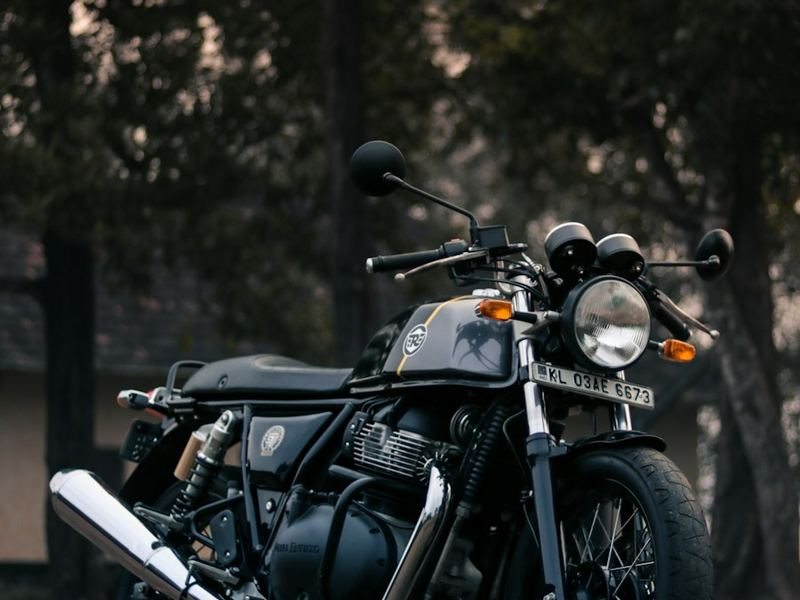
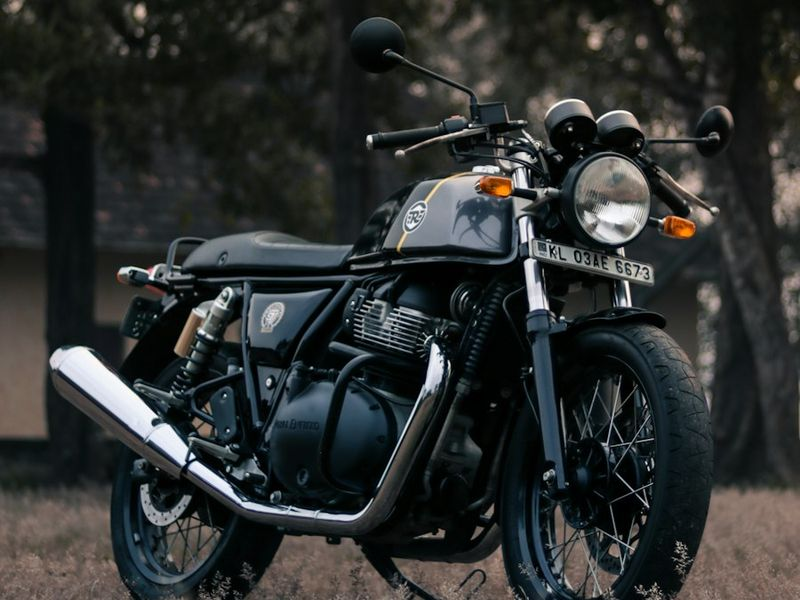
updates

diff --git a/css/style.css b/css/style.css
@@ -171,6 +171,8 @@ button, input, select, textarea { font: inherit; }
 .tagline::before { content: ''; width: 28px; height: 3px; border-radius: 2px; background: var(--green); }
 .hero h1 { color: var(--white); margin-bottom: 16px; text-shadow: 0 2px 18px rgba(0, 0, 0, .35); }
 .hl { color: var(--yellow); }
+.hl--rotate { display: inline-block; white-space: nowrap; transition: opacity .35s ease, transform .35s ease; }
+.hl--rotate.is-out { opacity: 0; transform: translateY(.3em); }
 .hero__lead { font-size: 17px; color: #e6e6e6; margin-bottom: 24px; max-width: 540px; }
 .hero__perks { list-style: none; padding: 0; margin: 0 0 34px; display: flex; flex-wrap: wrap; gap: 10px; }
 .hero__perks li {
@@ -181,12 +183,6 @@ button, input, select, textarea { font: inherit; }
 
 .search-card { background: var(--white); color: var(--text); border-radius: 20px; box-shadow: 0 24px 60px rgba(0, 0, 0, .35); padding: 28px; display: grid; grid-template-columns: minmax(0, 1fr); gap: 14px; width: 100%; max-width: 500px; justify-self: end; border-top: 5px solid var(--yellow); }
 .search-card__title { grid-column: 1 / -1; font-size: 22px; margin: 0; }
-.toggle { grid-column: 1 / -1; display: inline-flex; justify-self: start; background: var(--bg-grey); border-radius: 999px; padding: 4px; }
-.toggle input { position: absolute; opacity: 0; pointer-events: none; }
-.toggle span { display: inline-flex; align-items: center; gap: 6px; padding: 8px 22px; border-radius: 999px; font-weight: 600; font-size: 14px; color: var(--grey); cursor: pointer; transition: .2s; }
-.toggle .i { width: 18px; height: 18px; }
-.toggle input:checked + span { background: var(--yellow); color: var(--black); }
-.toggle input:focus-visible + span { outline: 2px solid var(--black); }
 .field { display: grid; gap: 6px; min-width: 0; }
 .field--full { grid-column: 1 / -1; }
 .field > span { display: flex; align-items: center; gap: 6px; font-size: 13px; font-weight: 600; color: var(--black); }
@@ -212,9 +208,6 @@ button, input, select, textarea { font: inherit; }
 }
 @media (max-width: 520px) {
   .search-card { grid-template-columns: 1fr; padding: 20px 18px; }
-  .toggle { justify-self: stretch; }
-  .toggle label { flex: 1; }
-  .toggle span { justify-content: center; width: 100%; }
   .hero__perks li { padding: 6px 12px; font-size: 13px; }
 }
 
@@ -233,8 +226,8 @@ button, input, select, textarea { font: inherit; }
 .bike-row { display: grid; grid-template-columns: repeat(4, 1fr); gap: 24px; }
 .bike-card { background: var(--white); border: 1px solid var(--line); border-radius: var(--radius); overflow: hidden; display: flex; flex-direction: column; transition: transform .25s, box-shadow .25s; }
 .bike-card:hover { transform: translateY(-6px); box-shadow: var(--shadow-lg); }
-.bike-card__img { background: var(--bg-grey); padding: 14px; }
-.bike-card__img img { width: 100%; aspect-ratio: 4 / 3; object-fit: cover; border-radius: var(--radius-sm); }
+.bike-card__img { background: var(--bg-grey); }
+.bike-card__img img { width: 100%; aspect-ratio: 4 / 3; object-fit: cover; }
 .bike-card__body { padding: 18px 20px 22px; display: flex; flex-direction: column; flex: 1; }
 .bike-card__meta { display: flex; justify-content: space-between; align-items: center; margin-bottom: 10px; }
 .chip { font-size: 12px; font-weight: 600; padding: 3px 12px; border-radius: 999px; background: var(--yellow-soft); color: var(--black); }
@@ -245,7 +238,7 @@ button, input, select, textarea { font: inherit; }
 .feat { list-style: none; padding: 0; margin: 0 0 20px; display: grid; gap: 6px; font-size: 14px; }
 .feat li { display: flex; gap: 8px; align-items: flex-start; }
 .feat .i { width: 18px; height: 18px; margin-top: 2px; color: var(--green); stroke-width: 2.4; }
-.bike-card .btn { margin-top: auto; align-self: flex-start; }
+.bike-card .btn { margin-top: auto; align-self: center; }
 
 @media (max-width: 1080px) { .bike-row { grid-template-columns: repeat(2, 1fr); } }
 @media (max-width: 640px) {
@@ -437,13 +430,11 @@ button, input, select, textarea { font: inherit; }
 .footer ul { list-style: none; padding: 0; margin: 0; display: grid; gap: 10px; }
 .footer a { text-decoration: none; transition: color .2s; }
 .footer ul a:hover { color: var(--yellow); }
-.footer__brand p { margin: 16px 0 20px; }
+.footer__brand p { margin: 12px 0 0; }
+.footer__tagline { color: var(--white); font-weight: 500; }
+.footer__about { font-size: 14px; line-height: 1.7; }
 .footer__contact li { display: flex; align-items: center; gap: 10px; word-break: break-word; }
 .footer__contact .i { width: 18px; height: 18px; color: var(--green); }
-.social { display: flex; gap: 10px; }
-.social a { display: grid; place-items: center; width: 40px; height: 40px; border-radius: 50%; background: #222; color: var(--white); transition: background .2s, color .2s; }
-.social a:hover { background: var(--yellow); color: var(--black); }
-.social .i { width: 19px; height: 19px; }
 .footer__bottom { border-top: 1px solid #262626; padding: 20px 0 22px; font-size: 14px; }
 .footer__bottom a:hover { color: var(--yellow); }
 @media (max-width: 900px) { .footer__grid { grid-template-columns: 1fr 1fr; } }

diff --git a/js/main.js b/js/main.js
@@ -1,7 +1,7 @@
 (function () {
   'use strict';
 
-  var WHATSAPP = '919733042987';
+  var WHATSAPP = '919246240880';
   var EMAIL = 'taskriders.slg@gmail.com';
   // Free form-to-email service. The first enquiry sends an activation email to the inbox above — click it once.
   var FORM_ENDPOINT = 'https://formsubmit.co/ajax/' + EMAIL;
@@ -56,6 +56,21 @@
     s.addEventListener('change', function () { setLocation(s.value); store('tr-location', s.value); });
   });
 
+  // ---------- Hero heading: rotating word ----------
+  var rotator = document.querySelector('[data-words]');
+  if (rotator && !window.matchMedia('(prefers-reduced-motion: reduce)').matches) {
+    var words = rotator.getAttribute('data-words').split(',');
+    var wordIndex = 0;
+    setInterval(function () {
+      rotator.classList.add('is-out');
+      setTimeout(function () {
+        wordIndex = (wordIndex + 1) % words.length;
+        rotator.textContent = words[wordIndex];
+        rotator.classList.remove('is-out');
+      }, 350);
+    }, 2500);
+  }
+
   // ---------- Hero slider ----------
   var slider = document.querySelector('[data-slider]');
   if (slider) {
@@ -108,10 +123,13 @@
 
     search.addEventListener('submit', function (e) {
       e.preventDefault();
-      if (!sPick.value || !sRet.value || sRet.value <= sPick.value) {
-        sErr.textContent = !sPick.value || !sRet.value
-          ? 'Please choose your pick-up and return date & time.'
-          : 'Return time must be after pick-up time.';
+      var sVehicle = search.elements.vehicle;
+      if (!sVehicle.value || !sPick.value || !sRet.value || sRet.value <= sPick.value) {
+        sErr.textContent = !sVehicle.value
+          ? 'Please select a bike or scooty.'
+          : !sPick.value || !sRet.value
+            ? 'Please choose your pick-up and return date & time.'
+            : 'Return time must be after pick-up time.';
         sErr.hidden = false;
         return;
       }

diff --git a/includes/functions.php b/includes/functions.php
@@ -61,9 +61,6 @@ const ICONS = [
     'engine'   => '<path d="M4 9h3l2-2h5l2 2h2v3h2v4h-2v2h-4l-2 2H9l-2-2H4z"/>',
     'phone'    => '<path d="M22 16.9v3a2 2 0 0 1-2.2 2 19.8 19.8 0 0 1-8.6-3.1 19.5 19.5 0 0 1-6-6A19.8 19.8 0 0 1 2.1 4.2 2 2 0 0 1 4.1 2h3a2 2 0 0 1 2 1.7c.1.9.4 1.8.7 2.7a2 2 0 0 1-.5 2.1L8 9.8a16 16 0 0 0 6 6l1.3-1.3a2 2 0 0 1 2.1-.4c.9.3 1.8.6 2.7.7a2 2 0 0 1 1.7 2z"/>',
     'mail'     => '<rect x="2" y="4" width="20" height="16" rx="2"/><path d="m22 6-10 7L2 6"/>',
-    'insta'    => '<rect x="2" y="2" width="20" height="20" rx="5"/><circle cx="12" cy="12" r="4"/><circle cx="17.5" cy="6.5" r=".5"/>',
-    'facebook' => '<path d="M18 2h-3a5 5 0 0 0-5 5v3H7v4h3v8h4v-8h3l1-4h-4V7a1 1 0 0 1 1-1h3z"/>',
-    'youtube'  => '<rect x="2" y="5" width="20" height="14" rx="4"/><path d="m10 9 5 3-5 3z"/>',
     'arrow-right' => '<path d="M5 12h14M13 5l7 7-7 7"/>',
     'chevron'  => '<path d="m6 9 6 6 6-6"/>',
     'clock'    => '<circle cx="12" cy="12" r="10"/><path d="M12 6v6l4 2"/>',
@@ -117,6 +114,15 @@ function hero(): string
         $dots .= '<button type="button" aria-label="Show slide ' . $n . '"' . ($first ? ' class="is-active"' : '') . '></button>';
     }
     $loc_opts = implode('', array_map(fn($l) => '<option>' . e($l) . '</option>', LOCATIONS));
+    // Grouped under "Bike" and "Scooty" headings, using each vehicle's type from config.php
+    $bike_opts = '';
+    foreach (['Bike', 'Scooty'] as $type) {
+        $bike_opts .= '<optgroup label="' . $type . '">';
+        foreach (array_filter(BIKES, fn($b) => $b['type'] === $type) as $b) {
+            $bike_opts .= '<option>' . e($b['name']) . '</option>';
+        }
+        $bike_opts .= '</optgroup>';
+    }
     $perks = '';
     foreach ([['helmet', 'Free helmet'], ['support', '24/7 support'], ['doc', 'Permit help']] as [$ic, $t]) {
         $perks .= '<li>' . icon($ic) . $t . '</li>';
@@ -131,7 +137,7 @@ function hero(): string
   <div class="container hero__grid">
     <div class="hero__text">
       <span class="tagline">Ride • Explore • Repeat</span>
-      <h1>Rent Royal Enfield &amp; Scooty in <span class="hl">Darjeeling, Sikkim</span> &amp; the Himalayas</h1>
+      <h1>Your next <span class="hl hl--rotate" data-words="adventure,journey,road trip,escape">adventure</span><br>starts here</h1>
       <p class="hero__lead">Well-serviced bikes from {$city} for Darjeeling, Gangtok, Bhutan, Nepal &amp; the North East.</p>
       <ul class="hero__perks">{$perks}</ul>
       <div class="hero__dots" data-dots>{$dots}</div>
@@ -139,10 +145,10 @@ function hero(): string
 
     <form class="search-card" id="search-card" novalidate>
         <h2 class="search-card__title">Book Your Ride</h2>
-        <div class="toggle" role="radiogroup" aria-label="Vehicle type">
-          <label><input type="radio" name="vehicle" value="Bike" checked><span>{$i_bike} Bike</span></label>
-          <label><input type="radio" name="vehicle" value="Scooty"><span>{$i_bike} Scooty</span></label>
-        </div>
+        <label class="field field--full">
+          <span>{$i_bike} Bike / Scooty</span>
+          <select name="vehicle" required><option value="">Select a bike or scooty</option>{$bike_opts}</select>
+        </label>
         <label class="field field--full">
           <span>{$i_pin} Pick-up Location</span>
           <select name="location" data-location>{$loc_opts}</select>
@@ -179,11 +185,12 @@ function bike_card(array $b): string
         $feats .= '<li>' . icon('check') . e($f) . '</li>';
     }
     $e = 'e';
+    $src = asset($b['image']); // versioned so replaced photos show immediately
     $engine_icon = icon('engine');
     $btn = wa_link('Enquire Now', 'btn btn--wa btn--sm');
     return <<<HTML
     <article class="bike-card">
-      <div class="bike-card__img"><img src="{$b['image']}" alt="{$e($b['alt'])}" width="800" height="600" loading="lazy"></div>
+      <div class="bike-card__img"><img src="{$src}" alt="{$e($b['alt'])}" width="800" height="600" loading="lazy"></div>
       <div class="bike-card__body">
         <div class="bike-card__meta"><span class="chip">{$e($b['type'])}</span><span class="engine">{$engine_icon}{$e($b['engine'])}</span></div>
         <h3>{$e($b['name'])}</h3>
@@ -386,7 +393,6 @@ function enquiry(string $sec_cls = 'section'): string
     }
     $head = head_label('Book Now', 'Send a Booking Enquiry', "Fill in your details and we'll get back to you shortly. Prefer chat? WhatsApp us anytime.", false);
     $i_phone = icon('phone');
-    $i_wa = icon('whatsapp');
     $i_mail = icon('mail');
     $i_pin = icon('pin');
     $i_ok = icon('check-circle');
@@ -399,8 +405,7 @@ function enquiry(string $sec_cls = 'section'): string
     <div class="enquiry__info">
       {$head}
       <ul class="contact-list">
-        <li>{$i_phone}<div><span>Call</span><a href="tel:+{$s['call_raw']}">{$s['call']}</a></div></li>
-        <li>{$i_wa}<div><span>WhatsApp</span><a href="{$wa}" target="_blank" rel="noopener">{$s['phone']}</a></div></li>
+        <li>{$i_phone}<div><span>Call / WhatsApp</span><a href="tel:+{$s['phone_raw']}">{$s['phone']}</a></div></li>
         <li>{$i_mail}<div><span>Email</span><a href="mailto:{$s['email']}">{$s['email']}</a></div></li>
         <li>{$i_pin}<div><span>Based in</span><strong>{$s['city']}</strong></div></li>
       </ul>

diff --git a/includes/layout.php b/includes/layout.php
@@ -116,7 +116,7 @@ function site_footer(): string
     }
     $s = array_map('e', SITE);
     $wa = e(WA);
-    $i = array_map('icon', ['insta' => 'insta', 'facebook' => 'facebook', 'youtube' => 'youtube', 'whatsapp' => 'whatsapp',
+    $i = array_map('icon', ['whatsapp' => 'whatsapp',
                             'phone' => 'phone', 'mail' => 'mail', 'pin' => 'pin']);
     return <<<HTML
 <footer class="footer">
@@ -126,13 +126,8 @@ function site_footer(): string
         <img src="images/logo.png" alt="Task Riders logo" width="56" height="56" loading="lazy" onerror="this.style.display='none'">
         <span>Task <b>Riders</b></span>
       </a>
-      <p>Himalayan bike rentals from the hills.</p>
-      <div class="social">
-        <a href="{$s['instagram']}" aria-label="Instagram" target="_blank" rel="noopener">{$i['insta']}</a>
-        <a href="{$s['facebook']}" aria-label="Facebook" target="_blank" rel="noopener">{$i['facebook']}</a>
-        <a href="{$s['youtube']}" aria-label="YouTube" target="_blank" rel="noopener">{$i['youtube']}</a>
-        <a href="{$wa}" aria-label="WhatsApp" target="_blank" rel="noopener">{$i['whatsapp']}</a>
-      </div>
+      <p class="footer__tagline">Himalayan bike rentals from the hills.</p>
+      <p class="footer__about">Task Riders offers Royal Enfield and scooty rental in Siliguri, the gateway to the Eastern Himalayas. Rent a Hunter 350, Meteor 350, Classic 350 or TVS Ntorq 125 for rides to Darjeeling, Gangtok, Sikkim, Bhutan, Nepal and North East India, with a free helmet, permit help and 24/7 on-road support.</p>
     </div>
     <div>
       <h4>Company</h4>
@@ -145,8 +140,7 @@ function site_footer(): string
     <div>
       <h4>Get in Touch</h4>
       <ul class="footer__contact">
-        <li>{$i['phone']}<a href="tel:+{$s['call_raw']}">{$s['call']}</a></li>
-        <li>{$i['whatsapp']}<a href="{$wa}" target="_blank" rel="noopener">{$s['phone']}</a></li>
+        <li>{$i['phone']}<a href="tel:+{$s['phone_raw']}">{$s['phone']}</a></li>
         <li>{$i['mail']}<a href="mailto:{$s['email']}">{$s['email']}</a></li>
         <li>{$i['pin']}<span>{$s['city']}</span></li>
       </ul>
@@ -155,7 +149,7 @@ function site_footer(): string
   <div class="footer__bottom"><div class="container">© 2026 Task Riders | <a href="{$s['url']}">{$s['domain']}</a></div></div>
 </footer>
 
-<a href="tel:+{$s['call_raw']}" class="call-float" aria-label="Call {$s['call']}">{$i['phone']}</a>
+<a href="tel:+{$s['phone_raw']}" class="call-float" aria-label="Call {$s['phone']}">{$i['phone']}</a>
 <a href="{$wa}" class="wa-float" target="_blank" rel="noopener" aria-label="Chat on WhatsApp">{$i['whatsapp']}</a>
 HTML;
 }

diff --git a/includes/config.php b/includes/config.php
@@ -9,10 +9,8 @@ const SITE = [
     'domain'    => 'taskriders.in',
     'url'       => 'https://taskriders.in/',
     'email'     => 'taskriders.slg@gmail.com',
-    'phone'     => '+91 97330 42987', // WhatsApp number
-    'phone_raw' => '919733042987',
-    'call'      => '+91 92462 40880', // number for phone calls
-    'call_raw'  => '919246240880',
+    'phone'     => '+91 92462 40880', // used for calls and WhatsApp
+    'phone_raw' => '919246240880',
     'city'      => 'Siliguri, West Bengal',
     'instagram' => '#', // EDIT: https://instagram.com/yourpage
     'facebook'  => '#', // EDIT: https://facebook.com/yourpage
@@ -59,7 +57,7 @@ const BIKES = [
         'name'     => 'Royal Enfield Meteor 350',
         'type'     => 'Bike',
         'image'    => 'images/bike-meteor.jpg',
-        'alt'      => 'Royal Enfield cruiser motorcycle for long highway rides to Bhutan and the North East',
+        'alt'      => 'Black Royal Enfield Meteor 350 cruiser on rent, parked at a Himalayan viewpoint at sunset',
         'engine'   => '349 cc',
         'summary'  => 'Comfortable cruiser for long rides.',
         'features' => ['Relaxed cruiser seating', 'Smooth on long highways', 'Great for Bhutan & North East'],
@@ -81,7 +79,7 @@ const BIKES = [
         'name'     => 'TVS Ntorq 125',
         'type'     => 'Scooty',
         'image'    => 'images/scooty-ntorq.jpg',
-        'alt'      => 'Scooty on rent in Siliguri and Darjeeling for local sightseeing',
+        'alt'      => 'TVS Ntorq 125 Race Edition scooty on rent, parked on a hill road at sunset',
         'engine'   => '124.8 cc',
         'summary'  => 'Easy, fuel-efficient for local sightseeing.',
         'features' => ['Gearless & easy to ride', 'Fuel-efficient', 'Perfect for town sightseeing'],
@@ -215,7 +213,7 @@ const FAQ = [
     ['Is fuel included?',
      'No, fuel is extra. Bikes are handed over with enough fuel to reach the nearest pump.'],
     ['How do I book?',
-     'Fill the enquiry form on this site or WhatsApp us on +91 97330 42987.'],
+     'Fill the enquiry form on this site or WhatsApp us on +91 92462 40880.'],
     ['Where can I rent a Royal Enfield for Darjeeling or Sikkim?',
      'Task Riders rents the Royal Enfield Hunter 350, Meteor 350, Classic 350 and the TVS Ntorq 125 scooty from Siliguri, '
      . 'the gateway to Darjeeling, Sikkim, Bhutan and Nepal. Book through the enquiry form or on WhatsApp.'],

diff --git a/includes/schema.php b/includes/schema.php
@@ -35,10 +35,10 @@ function business_schema(): array
         'image' => [abs_url('images/hero-1.jpg'), abs_url('images/logo-512.png')],
         'description' => SUMMARY,
         'email' => SITE['email'],
-        'telephone' => '+' . SITE['call_raw'],
+        'telephone' => '+' . SITE['phone_raw'],
         'address' => ['@type' => 'PostalAddress', 'addressLocality' => 'Siliguri', 'addressRegion' => 'West Bengal', 'addressCountry' => 'IN'],
         'areaServed' => $areas,
-        'contactPoint' => ['@type' => 'ContactPoint', 'telephone' => '+' . SITE['call_raw'], 'email' => SITE['email'],
+        'contactPoint' => ['@type' => 'ContactPoint', 'telephone' => '+' . SITE['phone_raw'], 'email' => SITE['email'],
                            'contactType' => 'reservations', 'areaServed' => 'IN'],
         'hasOfferCatalog' => ['@type' => 'OfferCatalog', 'name' => 'Bike & Scooty Rentals', 'itemListElement' => $offers],
         'knowsAbout' => ['Royal Enfield rental', 'Scooty rental', 'Himalayan motorcycle trips', 'Sikkim bike permits', 'Bhutan bike trips'],

diff --git a/contact.php b/contact.php
@@ -5,10 +5,10 @@ page_start([
     'path'        => 'contact',
     'active'      => 'contact',
     'title'       => 'Contact & Book – Bike Rental in Siliguri | Task Riders',
-    'description' => 'Book a Royal Enfield or scooty in Siliguri. Call ' . SITE['call'] . ', WhatsApp ' . SITE['phone'] . ' or email ' . SITE['email'] . '.',
+    'description' => 'Book a Royal Enfield or scooty in Siliguri. Call or WhatsApp ' . SITE['phone'] . ' or email ' . SITE['email'] . '.',
     'page_type'   => 'ContactPage',
     'crumb'       => 'Contact',
 ]);
-echo page_hero('Contact &amp; Booking', 'Call ' . e(SITE['call']) . ', WhatsApp ' . e(SITE['phone']) . ', email ' . e(SITE['email']) . ', or send the enquiry form below — we reply fast.', 'Contact');
+echo page_hero('Contact &amp; Booking', 'Call or WhatsApp ' . e(SITE['phone']) . ', email ' . e(SITE['email']) . ', or send the enquiry form below — we reply fast.', 'Contact');
 echo enquiry(), faq();
 page_end();

diff --git a/llms.php b/llms.php
@@ -22,8 +22,7 @@ $url = SITE['url'];
 $facts = implode("\n", [
     "- Business: " . SITE['name'] . " (" . SITE['domain'] . "), Royal Enfield & scooty rental",
     "- Based in: " . SITE['city'] . ", India",
-    "- Phone (calls): " . SITE['call'],
-    "- WhatsApp: " . SITE['phone'] . " (https://wa.me/" . SITE['phone_raw'] . ")",
+    "- Phone / WhatsApp: " . SITE['phone'] . " (https://wa.me/" . SITE['phone_raw'] . ")",
     "- Email: " . SITE['email'],
     "- Pick-up points: " . implode(', ', LOCATIONS),
     "- Fleet: " . implode('; ', array_map(fn($b) => "{$b['name']} ({$b['engine']}) – " . rtrim($b['summary'], '.'), BIKES)),
